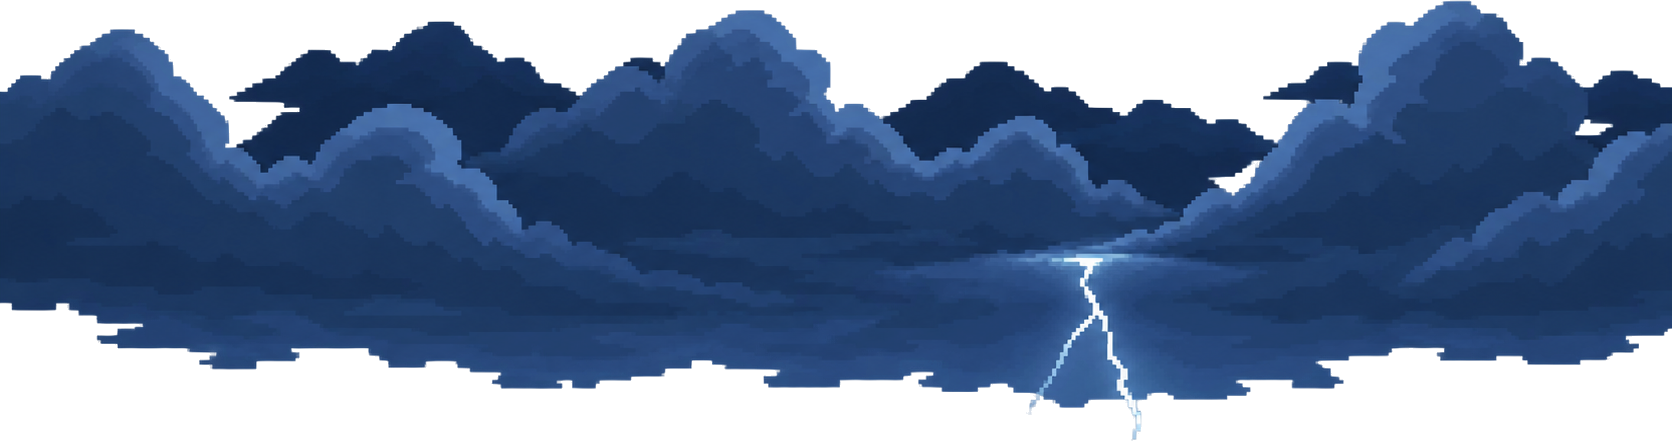
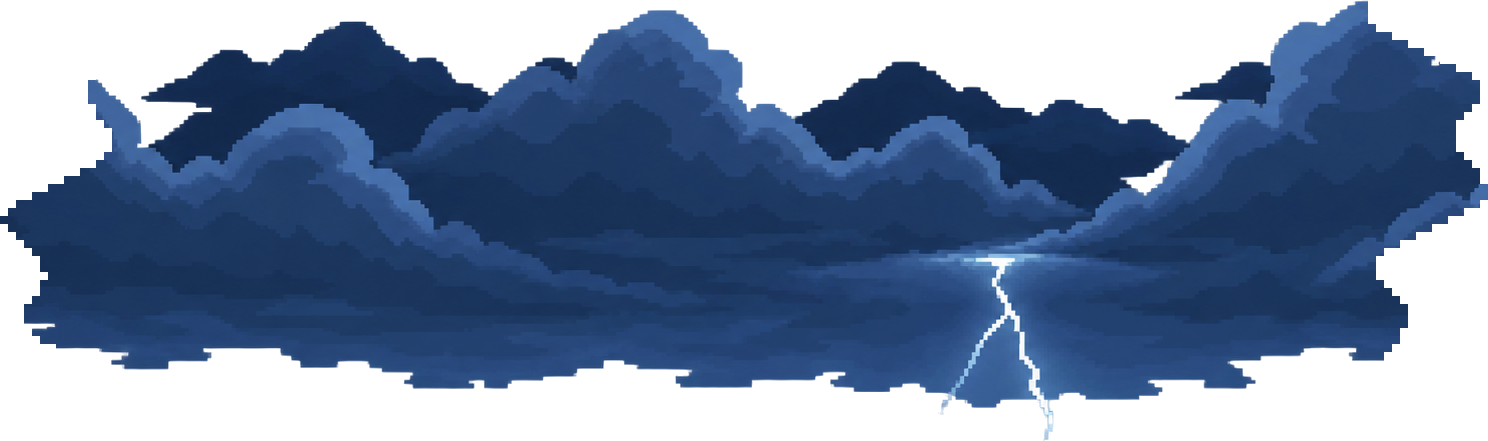
The shore's storm clouds end in rounded lobes, not a straight cut
Kent: parts of the runway are "cut off". The storm landmark is cut from Dagat's
storm clouds, which fill their canvas side to side, so on the shore the clouds
stopped in two vertical ruler lines in the open sky. The journey builder now
rounds both ends off in irregular lobes, at the art's own pixel size, and crops
the result back to its painted bounds.

diff --git a/tools/build_mayon_journey.py b/tools/build_mayon_journey.py
@@ -4,6 +4,7 @@
 These are scenery, never screenshots of running levels. Original artist files stay untouched.
 """
 import argparse
+import math
 from pathlib import Path
 from PIL import Image, ImageDraw, ImageFilter, ImageChops
 
@@ -40,6 +41,30 @@ def extend_own_ground(layer):
 def clean_alpha(image):
     image.putalpha(image.getchannel("A").point(lambda alpha: alpha if alpha>=24 else 0))
     return image
+
+
+def dissolve_sides(image, reach=0.14, cell=8):
+    """Clouds that ran to their canvas edges end in a straight cut wherever they stand. Round both
+    ends off in lobes, a block of the art's own pixel size at a time, so the clouds end in a cloud's
+    silhouette rather than a ruler line."""
+    width, height = image.size
+    ramp = max(cell, int(width*reach))
+    alpha = image.getchannel("A")
+    pixels = alpha.load()
+    for side in (0, 1):
+        for row in range(0, height, cell):
+            t = row/max(1, height-1)
+            # Two slow swells over the height: a few broad lobes, never a regular pattern.
+            swell = 0.5+0.5*math.sin(t*math.tau*1.3+side*2.1)
+            ripple = 0.5+0.5*math.sin(t*math.tau*3.7+side*0.7)
+            cut = int((0.35+0.65*(0.65*swell+0.35*ripple))*ramp)//cell*cell
+            for y in range(row, min(row+cell, height)):
+                for edge in range(cut):
+                    x = edge if side == 0 else width-1-edge
+                    pixels[x, y] = 0
+    image.putalpha(alpha)
+    # Its feet stay registered to its canvas (no outside padding), as every landmark's are.
+    return image.crop(image.getchannel("A").getbbox())
 
 
 def registered_frames(pattern, count):
@@ -163,7 +188,9 @@ def build():
         "palms": "Level3/authored/palms_island.png",
     }.items():
         original = clean_alpha(Image.open(ASSETS/source).convert("RGBA"))
-        outputs[ident+"_landmark.png"] = original.crop(original.getchannel("A").getbbox())
+        original = original.crop(original.getchannel("A").getbbox())
+        # The storm's clouds fill their canvas side to side (Kent: parts of the runway "cut off").
+        outputs[ident+"_landmark.png"] = dissolve_sides(original) if ident == "storm" else original
     atlas=Image.open(ASSETS/"Level1/texturemap.png").convert("RGBA")
     outputs["rice_beds.png"]=rice_beds()
     # These pieces already belong together in the original Payyo atlas. Preserve their

diff --git a/tests/test_mayon_journey.py b/tests/test_mayon_journey.py
@@ -59,6 +59,17 @@ class MayonJourneyArtTests(unittest.TestCase):
                 self.assertLessEqual(scene["length"],1440)
                 self.assertEqual(scene["profile"][-1][0],scene["length"])
 
+    def test_the_storm_does_not_end_in_a_straight_cut(self):
+        # Kent, 2026-11-05: parts of the runway are "cut off". The storm's clouds filled their
+        # canvas side to side, so on the shore they ended in two ruler lines; the ends are rounded off.
+        with Image.open(ROOT/"game/assets/Level5/journey/storm_landmark.png") as image:
+            alpha = image.convert("RGBA").getchannel("A")
+            width, height = alpha.size
+            for x in list(range(8))+list(range(width-8, width)):
+                with self.subTest(column=x):
+                    opaque = sum(1 for y in range(height) if alpha.getpixel((x, y)) > 200)
+                    self.assertLess(opaque, height*0.05)
+
     def test_the_terraces_target_is_payyos_own_painting(self):
         # Kent, 2026-11-05: the first memory lane "has full of grass which looks weird". Its target
         # was rice_beds.png, three slabs of stalks drawn by code and wider than the steps under them,
